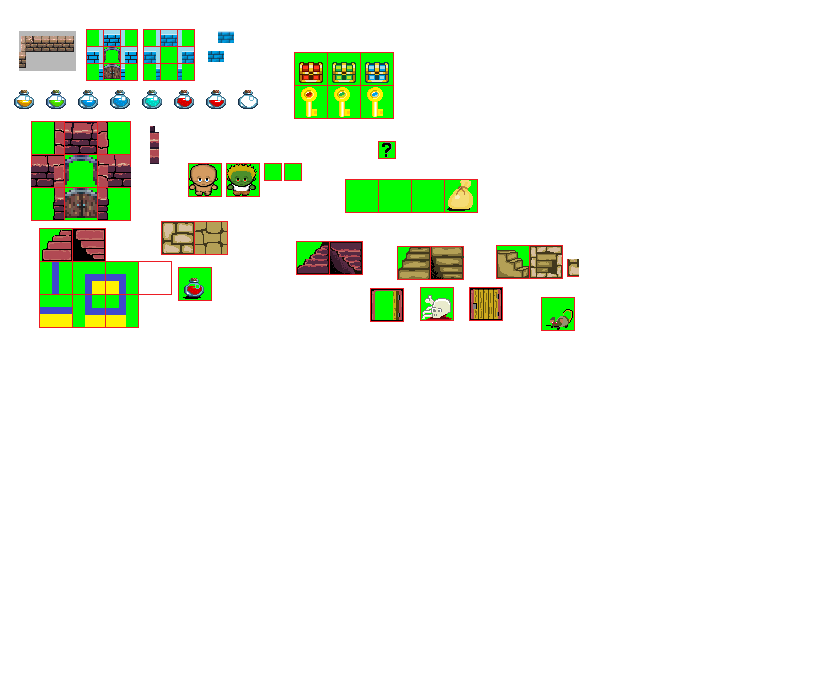
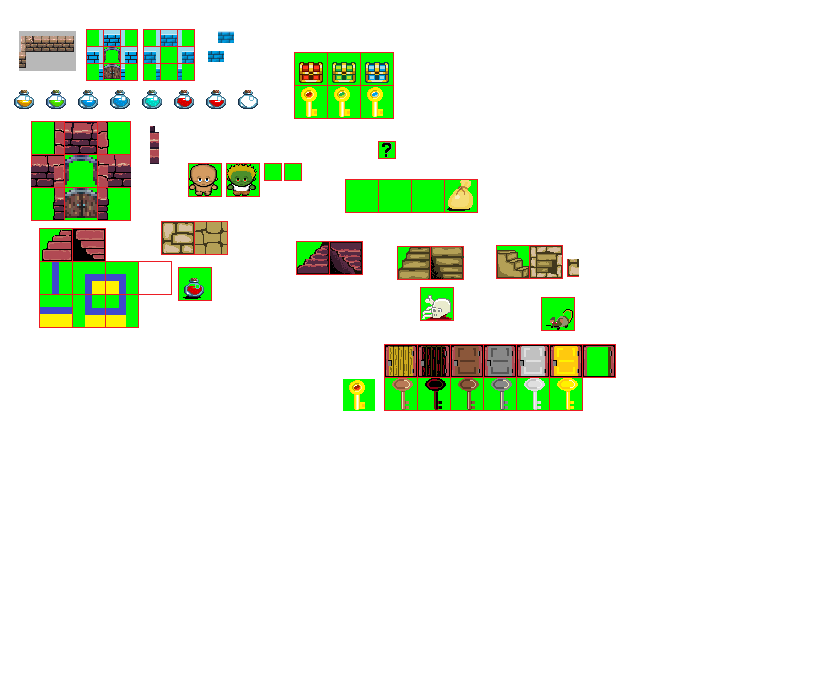
keys

Changed region(s): [[0.3968, 0.3997, 0.7631, 0.6149]]

diff --git a/rogue-js/src/components/tiles-render/texture-mapping.js b/rogue-js/src/components/tiles-render/texture-mapping.js
@@ -1,5 +1,5 @@
 import { WALL_CODES } from "../../game/commons/dungeon-tiles";
-import { TYPE_OBJECT, CHEST_KIND } from "../../game/objects";
+import { TYPE_OBJECT, CHEST_KIND, DOOR_KIND } from "../../game/objects";
 import { TYPE_ENNEMIES } from "../../game/ennemies/commons/type-ennemies";
 
 const ON_CENTER = 0b000010000;
@@ -10,26 +10,8 @@ export function getWallsText(code) {
   if (code === 0) {
     return undefined;
   }
-  // switch (code) {
-  //   // case WALL_CODES.NORTH_OR_SOUTH:
-  //   //   return { ...base, x: 34, y: 129 };
-  //   case WALL_CODES.WEST:
-  //     return { ...base, x: 1, y: 129 };
-  //   case WALL_CODES.EAST:
-  //     return { ...base, x: 67, y: 129 }; // 1 261
-  //   case WALL_CODES.CORNER_WEST:
-  //     return { ...base, x: 1, y: 162 };
-  //   case WALL_CODES.CORNER_EAST:
-  //     return { ...base, x: 67, y: 162 };
-  //   case WALL_CODES.PILAR_WEST:
-  //     return { ...base, x: 1, y: 195 };
-  //   case WALL_CODES.PILAR_EAST:
-  //     return { ...base, x: 67, y: 195 };
-  //   default:
-  //     return { ...base, x: 34, y: 129 };
-  // }
   if ((code & ON_SOUTH) === ON_SOUTH && (code & ON_CENTER) === ON_CENTER) {
-    return { ...base, x: 1, y: 261 };
+    return { ...base, x: 34, y: 195 };
   }
 
   return { ...base, x: 34, y: 129 };
@@ -78,15 +60,27 @@ function getChest(chest) {
 }
 
 function getKey(key) {
-  const { target } = key;
-
-  switch (target) {
+  const { kind } = key;
+  const { id } = kind;
+  switch (id) {
     case CHEST_KIND.red:
       return { x: 113, y: 98, width: 32, height: 32 };
     case CHEST_KIND.green:
       return { x: 146, y: 98, width: 32, height: 32 };
     case CHEST_KIND.blue:
       return { x: 179, y: 98, width: 32, height: 32 };
+    case DOOR_KIND.wood:
+      return { x: 1, y: 294, width: 32, height: 32 };
+    case DOOR_KIND.ebony:
+      return { x: 34, y: 294, width: 32, height: 32 };
+    case DOOR_KIND.bronze:
+      return { x: 67, y: 294, width: 32, height: 32 };
+    case DOOR_KIND.iron:
+      return { x: 99, y: 294, width: 32, height: 32 };
+    case DOOR_KIND.silver:
+      return { x: 132, y: 294, width: 32, height: 32 };
+    case DOOR_KIND.gold:
+      return { x: 165, y: 294, width: 32, height: 32 };
     default:
       return { x: 113, y: 98, width: 32, height: 32 };
   }
@@ -94,10 +88,28 @@ function getKey(key) {
 
 function getDoorTex(door) {
   const { opened } = door;
+  const base = { y: 261, width: 32, height: 32 };
   if (opened) {
-    return { x: 34, y: 162, width: 32, height: 32 };
+    return { ...base, x: 199 };
   }
-  return { x: 34, y: 195, width: 32, height: 32 };
+  const { kind } = door;
+  const { id } = kind;
+  switch (id) {
+    case DOOR_KIND.wood:
+      return { ...base, x: 1 };
+    case DOOR_KIND.ebony:
+      return { ...base, x: 34 };
+    case DOOR_KIND.bronze:
+      return { ...base, x: 67 };
+    case DOOR_KIND.iron:
+      return { ...base, x: 99 };
+    case DOOR_KIND.silver:
+      return { ...base, x: 132 };
+    case DOOR_KIND.gold:
+      return { ...base, x: 165 };
+    default:
+      return { ...base, x: 500 };
+  }
 }
 
 export function getStairsTex(stairs) {

diff --git a/rogue-js/src/game/objects/create-chest.js b/rogue-js/src/game/objects/create-chest.js
@@ -1,6 +1,8 @@
 import typeObject from "./type-object";
 import { openChestTodo } from "../todo";
 import { randomInt } from "../../commons";
+import createKey from "./create-key";
+import { computeDesc } from "../commons";
 
 let INDEX = 0;
 
@@ -11,48 +13,51 @@ const TYPES = {
     size: 0,
     type: typeObject.chest,
   },
-  chestKey: {
-    code: "chest-key",
-    desc: "une de cle de coffre",
-    size: 0,
-    type: typeObject.key,
-  },
 };
 
-export const CHEST_KIND = {
-  red: "Un coffre rouge",
-  green: "Un coffre vert",
-  blue: "Un coffre bleu",
-};
+const CHEST_KIND_LIST = [
+  { desc: "rouge", id: "red" },
+  { desc: "vert", id: "green" },
+  { desc: "bleue", id: "blue" },
+];
+export const CHEST_KIND = CHEST_KIND_LIST.reduce(function (a, k) {
+  const { id } = k;
+  return { ...a, [id]: k };
+}, {});
 
-const KEY_KIND = ["Une clef rouge", "Une clef verte", "Une clef bleue"];
+const KEY_KIND_LIST = [
+  { desc: "rouge", id: "red" },
+  { desc: "verte", id: "green" },
+  { desc: "bleue", id: "blue" },
+];
+export const KEY_KIND = KEY_KIND_LIST.reduce(function (a, k) {
+  const { id } = k;
+  return { ...a, [id]: k };
+}, {});
 
-function createChest() {
+function createChest(level, posChest, posKey) {
   const chestId = `chest-id-${INDEX++}`;
-  const kinds = Object.values(CHEST_KIND);
-  const kind = randomInt(kinds.length);
+  const kind = KEY_KIND_LIST[randomInt(KEY_KIND_LIST.length)];
   const chest = {
     ...TYPES.chest,
-    desc: kinds[kind],
+    desc: ({ kind }) => `une porte ${kind.desc}`,
     id: chestId,
     lockId: chestId,
-    kind: kinds[kind],
+    kind,
     takeable: false,
+    position: posChest,
   };
   chest.loot = function (chest) {
     // TODO loot
     return [];
   };
-  chest.todo = [{ desc: `Ouvrir ${chest.desc}`, todo: openChestTodo }];
-
-  const key = {
-    ...TYPES.chestKey,
-    id: `chest-key-id-${INDEX++}`,
-    desc: KEY_KIND[kind],
-    targets: [chestId],
-    takeable: true,
-    todo: [],
-  };
+  chest.todo = [{ desc: `Ouvrir ${computeDesc(chest)}`, todo: openChestTodo }];
+  const key = createKey(
+    level,
+    posKey,
+    [chest],
+    ({ kind }) => `une clef de coffre ${kind.desc}`
+  );
 
   return [chest, key];
 }

diff --git a/rogue-js/src/game/objects/create-door.js b/rogue-js/src/game/objects/create-door.js
@@ -3,6 +3,19 @@ import typeObject from "./type-object";
 
 let INDEX_DOOR = 1;
 
+const DOOR_KINDS_LIST = [
+  { desc: "bois", id: "wood" },
+  { desc: "ébène", id: "ebony" },
+  { desc: "bronze", id: "bronze" },
+  { desc: "fer", id: "iron" },
+  { desc: "argent", id: "silver" },
+  { desc: "or", id: "gold" },
+];
+export const DOOR_KIND = DOOR_KINDS_LIST.reduce(function (a, k) {
+  const { id } = k;
+  return { ...a, [id]: id };
+}, {});
+
 const TYPES = {
   door: {
     code: "door",
@@ -27,30 +40,19 @@ function doorDesc(door) {
   return `Ouvrir ${desc(door)}`;
 }
 
-export const DOOR_KINDS = [
-  "chêne",
-  "acajou",
-  "cuivre",
-  "étain",
-  "bronze",
-  "fer",
-  "argent",
-  "or",
-];
-
 export function generateDoorKind(index = 0) {
-  return DOOR_KINDS[Math.min(index, DOOR_KINDS.length - 1)];
+  return DOOR_KINDS_LIST[Math.min(index, DOOR_KINDS_LIST.length - 1)];
 }
 
 export function createDoor(
   position,
   level,
-  kind = DOOR_KINDS[0],
+  kind = DOOR_KINDS_LIST[0],
   locked = false
 ) {
   return {
     ...TYPES.door,
-    desc: ({ kind }) => `une porte en ${kind}`,
+    desc: ({ kind }) => `une porte en ${kind.desc}`,
     id: `door-${level}-${INDEX_DOOR++}`,
     takeable: false,
     level,
@@ -60,25 +62,6 @@ export function createDoor(
     kind,
     opened: false,
     todo: [{ desc: doorDesc, todo: openDoorTodo }],
-  };
-}
-
-export function createKey(
-  position,
-  level,
-  doors = [{ id: "-1", kind: "pass" }]
-) {
-  const targets = doors.map(({ lockId }) => lockId);
-  const kind = doors[0].kind;
-  return {
-    ...TYPES.keyDoor,
-    desc: ({ kind }) => `Une clef en ${kind}`,
-    id: `door-key-${level}-${INDEX_DOOR++}`,
-    position,
-    level,
-    kind,
-    targets,
-    todo: [],
   };
 }
 

diff --git a/rogue-js/src/game/dungeon/create-level-doors.js b/rogue-js/src/game/dungeon/create-level-doors.js
@@ -26,14 +26,21 @@ function createKeys(doorsMap, dungeon, level) {
       ...a,
       createKey(positions[randomInt(positions.length - 1)], level, doors),
     ];
-    return a;
   }, []);
+}
+
+function createRandomDoors(room, level, zoneIndex) {
+  const dice = randomInt(10);
+  if (dice > 1) {
+    return createDoorsRoom(room, level, generateDoorKind(zoneIndex - 1), true);
+  }
+  return createDoorsRoom(room, level, generateDoorKind(0), false);
 }
 
 function create(dungeon, level) {
   const { rooms, regions } = dungeon;
   const { zones } = regions;
-  const doorsMap = {};
+  const lockedDoorsMap = {};
   const levelDoors = zones.reduce(function (a, zone, zoneIndex) {
     const { roomIndex } = zone;
     if (zoneIndex === 0 && roomIndex >= 0) {
@@ -42,16 +49,17 @@ function create(dungeon, level) {
       return [...a, ...doors];
     }
     if (zoneIndex > 1 && roomIndex >= 0) {
-      const kind = generateDoorKind(zoneIndex - 1);
-      const doors = createDoorsRoom(rooms[roomIndex], level, kind, true);
-      doorsMap[zoneIndex] = doors;
+      const doors = createRandomDoors(rooms[roomIndex], level, zoneIndex);
+      if (doors[0].locked) {
+        lockedDoorsMap[zoneIndex] = doors;
+      }
 
       return [...a, ...doors];
     }
 
     return a;
   }, []);
-  const keys = createKeys(doorsMap, dungeon, level);
+  const keys = createKeys(lockedDoorsMap, dungeon, level);
   return [levelDoors, keys];
 }
 

diff --git a/rogue-js/src/game/objects/index.js b/rogue-js/src/game/objects/index.js
@@ -1,12 +1,12 @@
 export { default as simpleObjects } from "./simple";
 export {
-  createKey,
   createDoor,
   generateDoorKind,
   canOpen,
   unlockedAndOpenDoor,
   switchDoor,
 } from "./create-door";
+export { default as createKey } from "./create-key";
 export { default as createObjectDungeon } from "./create-objects-dungeon";
 export { default as removeObjectFromState } from "./remove-object-from-state";
 export { aggregateObjects } from "./aggregate-objects";
@@ -16,3 +16,4 @@ export * from "./weapons";
 export * from "./simple";
 export * from "./ammo";
 export { CHEST_KIND } from "./create-chest";
+export { DOOR_KIND } from "./create-door";

diff --git a/rogue-js/src/game/objects/create-key.js b/rogue-js/src/game/objects/create-key.js
@@ -1,0 +1,27 @@
+import typeObject from "./type-object";
+
+let INDEX = 0;
+
+const PROTO = {
+  code: "key",
+  size: 0,
+  takeable: true,
+  type: typeObject.key,
+};
+
+function create(position, level, targets, desc = "une clef") {
+  const { kind } = targets[0];
+  const lockedId = targets.map(({ lockedId }) => lockedId);
+  return {
+    ...PROTO,
+    id: `KEY-${INDEX++}`,
+    position,
+    level,
+    kind,
+    targets: lockedId,
+    desc,
+    todo: [],
+  };
+}
+
+export default create;

diff --git a/rogue-js/src/game/objects/create-objects-dungeon.js b/rogue-js/src/game/objects/create-objects-dungeon.js
@@ -19,7 +19,7 @@ function createChestAndKey(state, level, empties) {
   return new Array(NB_CHEST).fill(null).reduce(function (a) {
     const posChest = empties.popOne(level);
     const posKey = empties.peekOne(level);
-    const [chest, key] = createChest();
+    const [chest, key] = createChest(level, posChest, posKey);
     return [
       ...a,
       { ...chest, position: posChest, level },

diff --git a/rogue-js/src/game/todo/open-chest-todo.js b/rogue-js/src/game/todo/open-chest-todo.js
@@ -1,4 +1,4 @@
-import { TYPE_OBJECT, canOpen } from "../objects";
+import { canOpen } from "../objects";
 import { getKeys } from "../player/inventory";
 import PATTERNS from "../message-patterns";
 import { computeDesc } from "../commons";

diff --git a/rogue-js/src/game/activate-action.js b/rogue-js/src/game/activate-action.js
@@ -30,7 +30,7 @@ function getTakeableTodo(object) {
 }
 
 function appendTakeable(object, toDoes) {
-  const { takeable, type } = object;
+  const { takeable } = object;
   if (takeable) {
     return [
       ...toDoes,
